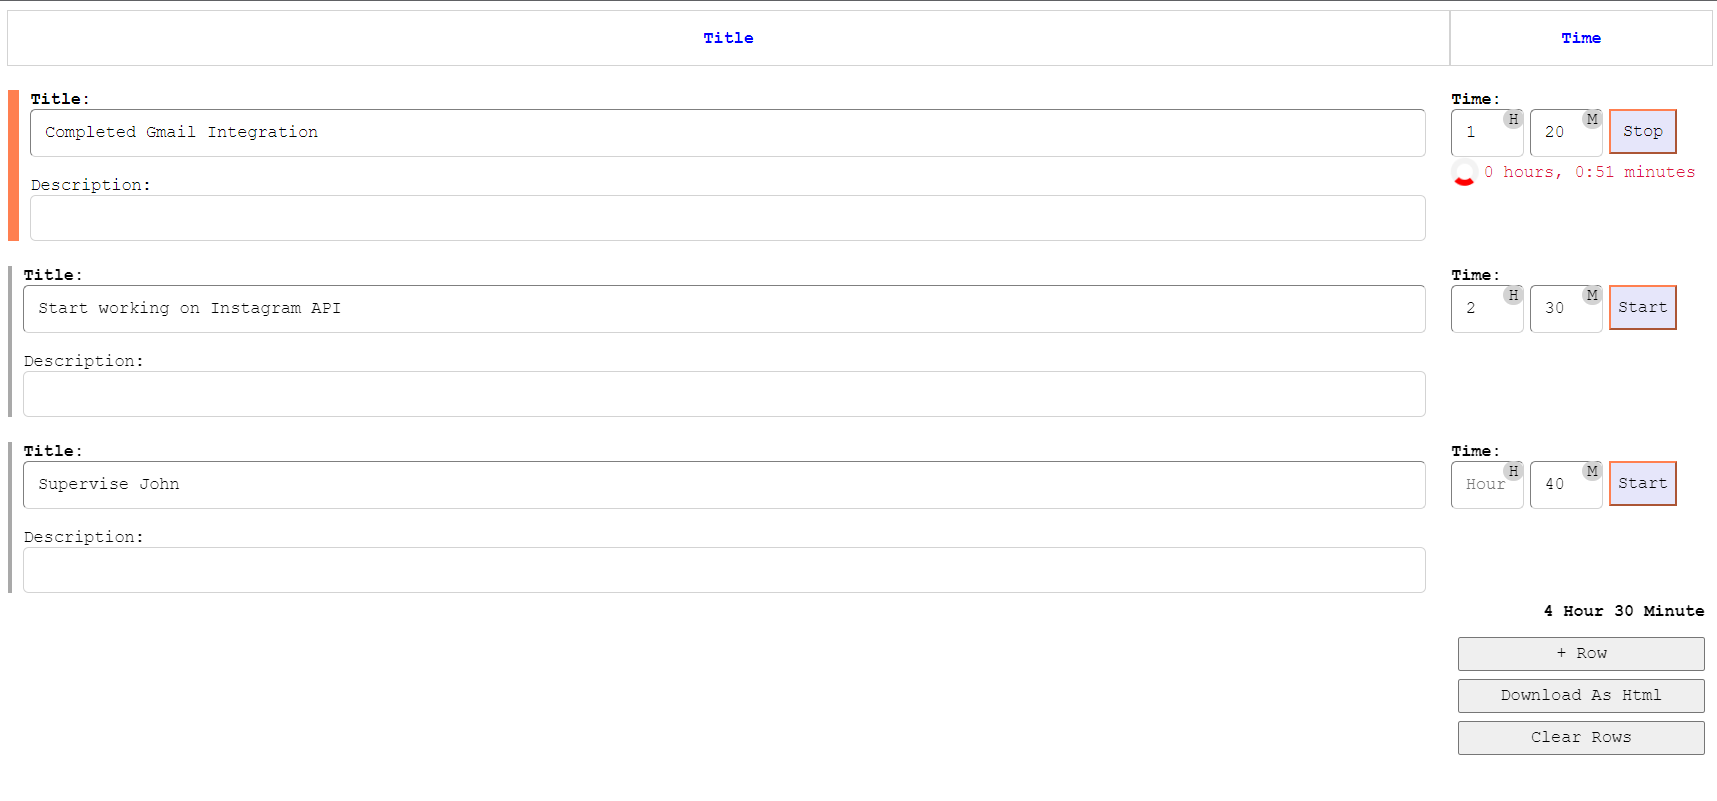
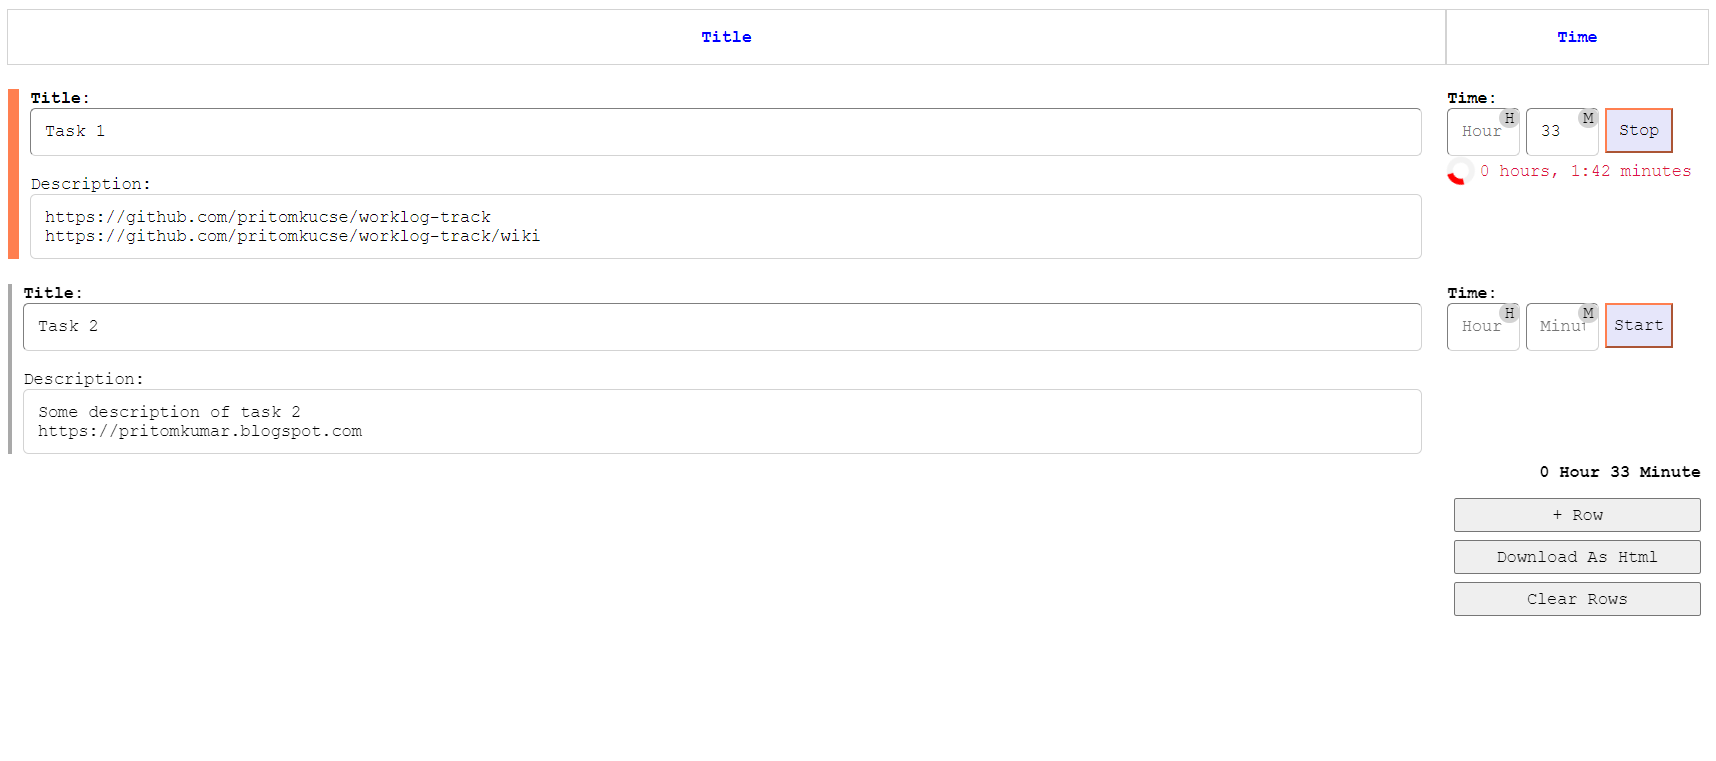
Worklog track

diff --git a/README.md b/README.md
@@ -1,8 +1,10 @@
 This is very simple tool to keep track of work log.
 
-Check below preview, there are several task I am working on for my office, I can set title of task, I can put descriptions in a text field.
+Check below preview, there are several task I am working on for my office, 
+I can set title of task, I can set descriptions too.
 
-I can set time manyally at righ side (hour and minute), there is a Start button to track time automatically.
+I can set time manually at right side (hour and minute), 
+there is a Start button to track time automatically.
 
 Once you hit Start button, time will start count automatically and there will be a Stop button.
 
@@ -10,6 +12,9 @@ When you hit Stop button, time will automatically calculate and set to respectiv
 
 At very end of the preview you can see total time logged.
 
-You can download data as Html format (Table).
-
 ![Preview of Worklog Mini Tool](WL-1.png?raw=true "Preview of Worklog Mini Tool")
+
+You can download data as Html format (Table) like below:
+
+![Export of Worklog Mini Tool to HTML Format](WL-2.png?raw=true "Export of Worklog Mini Tool to HTML Format")
+
